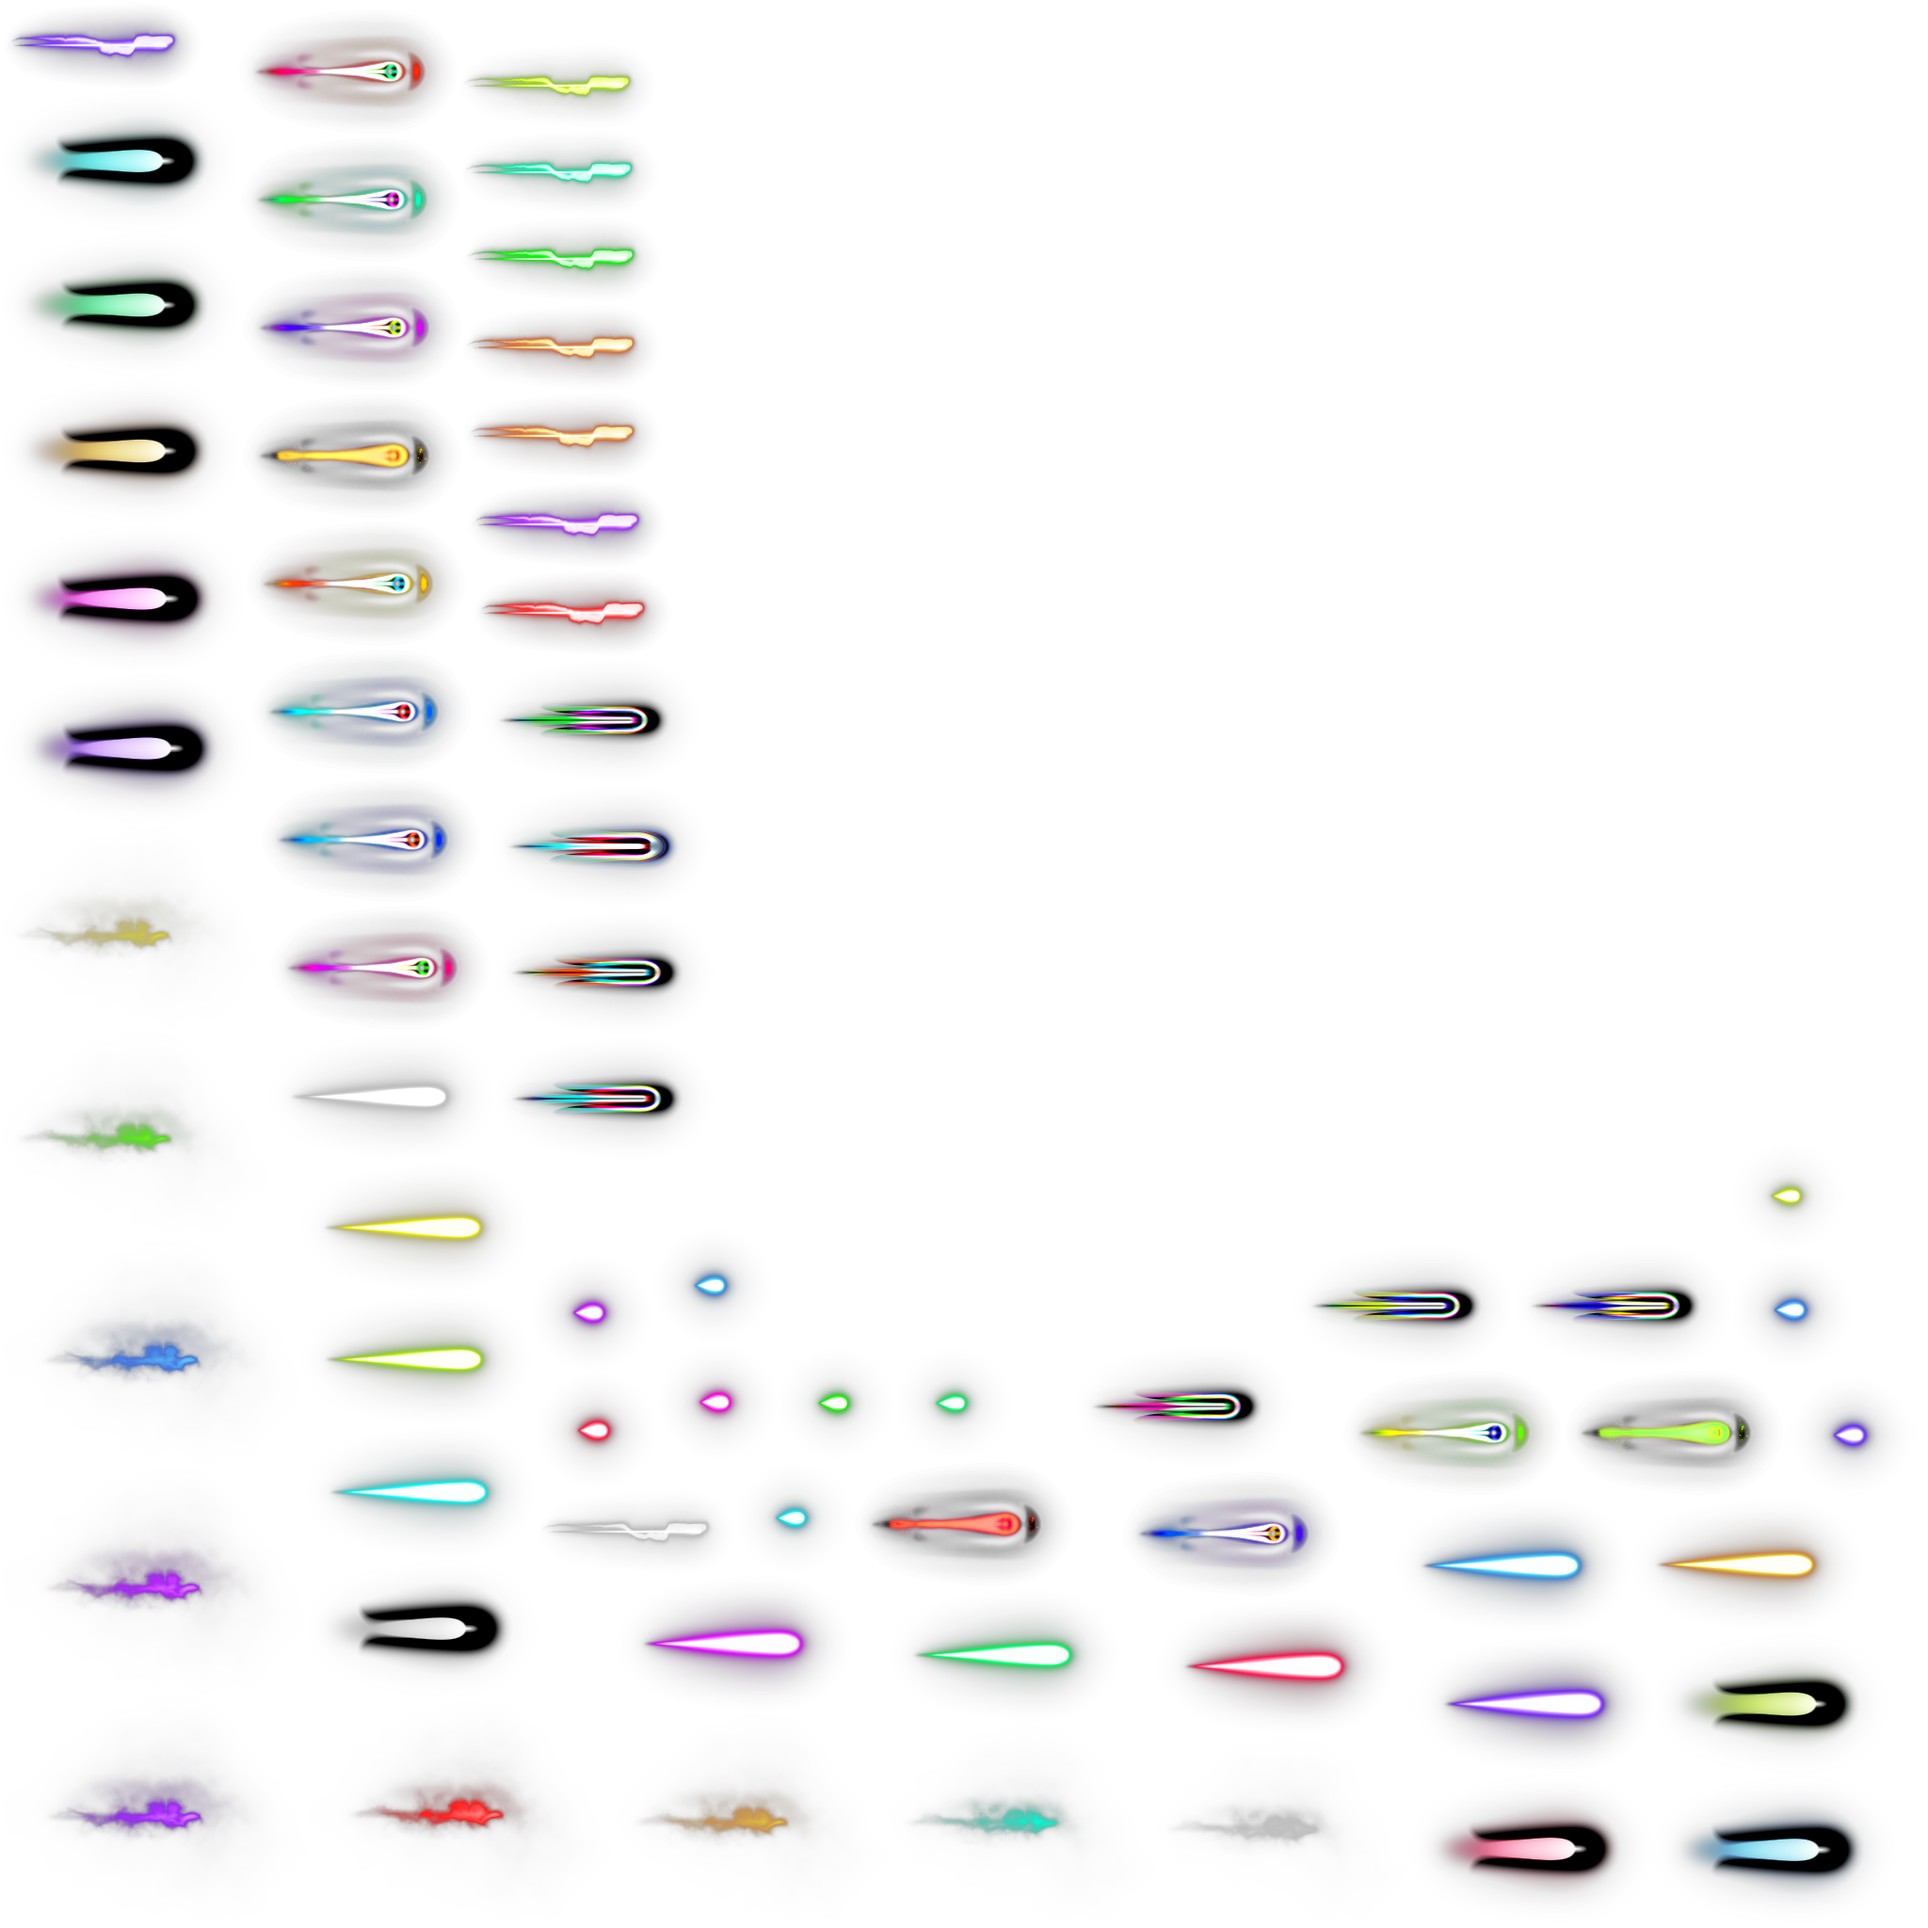
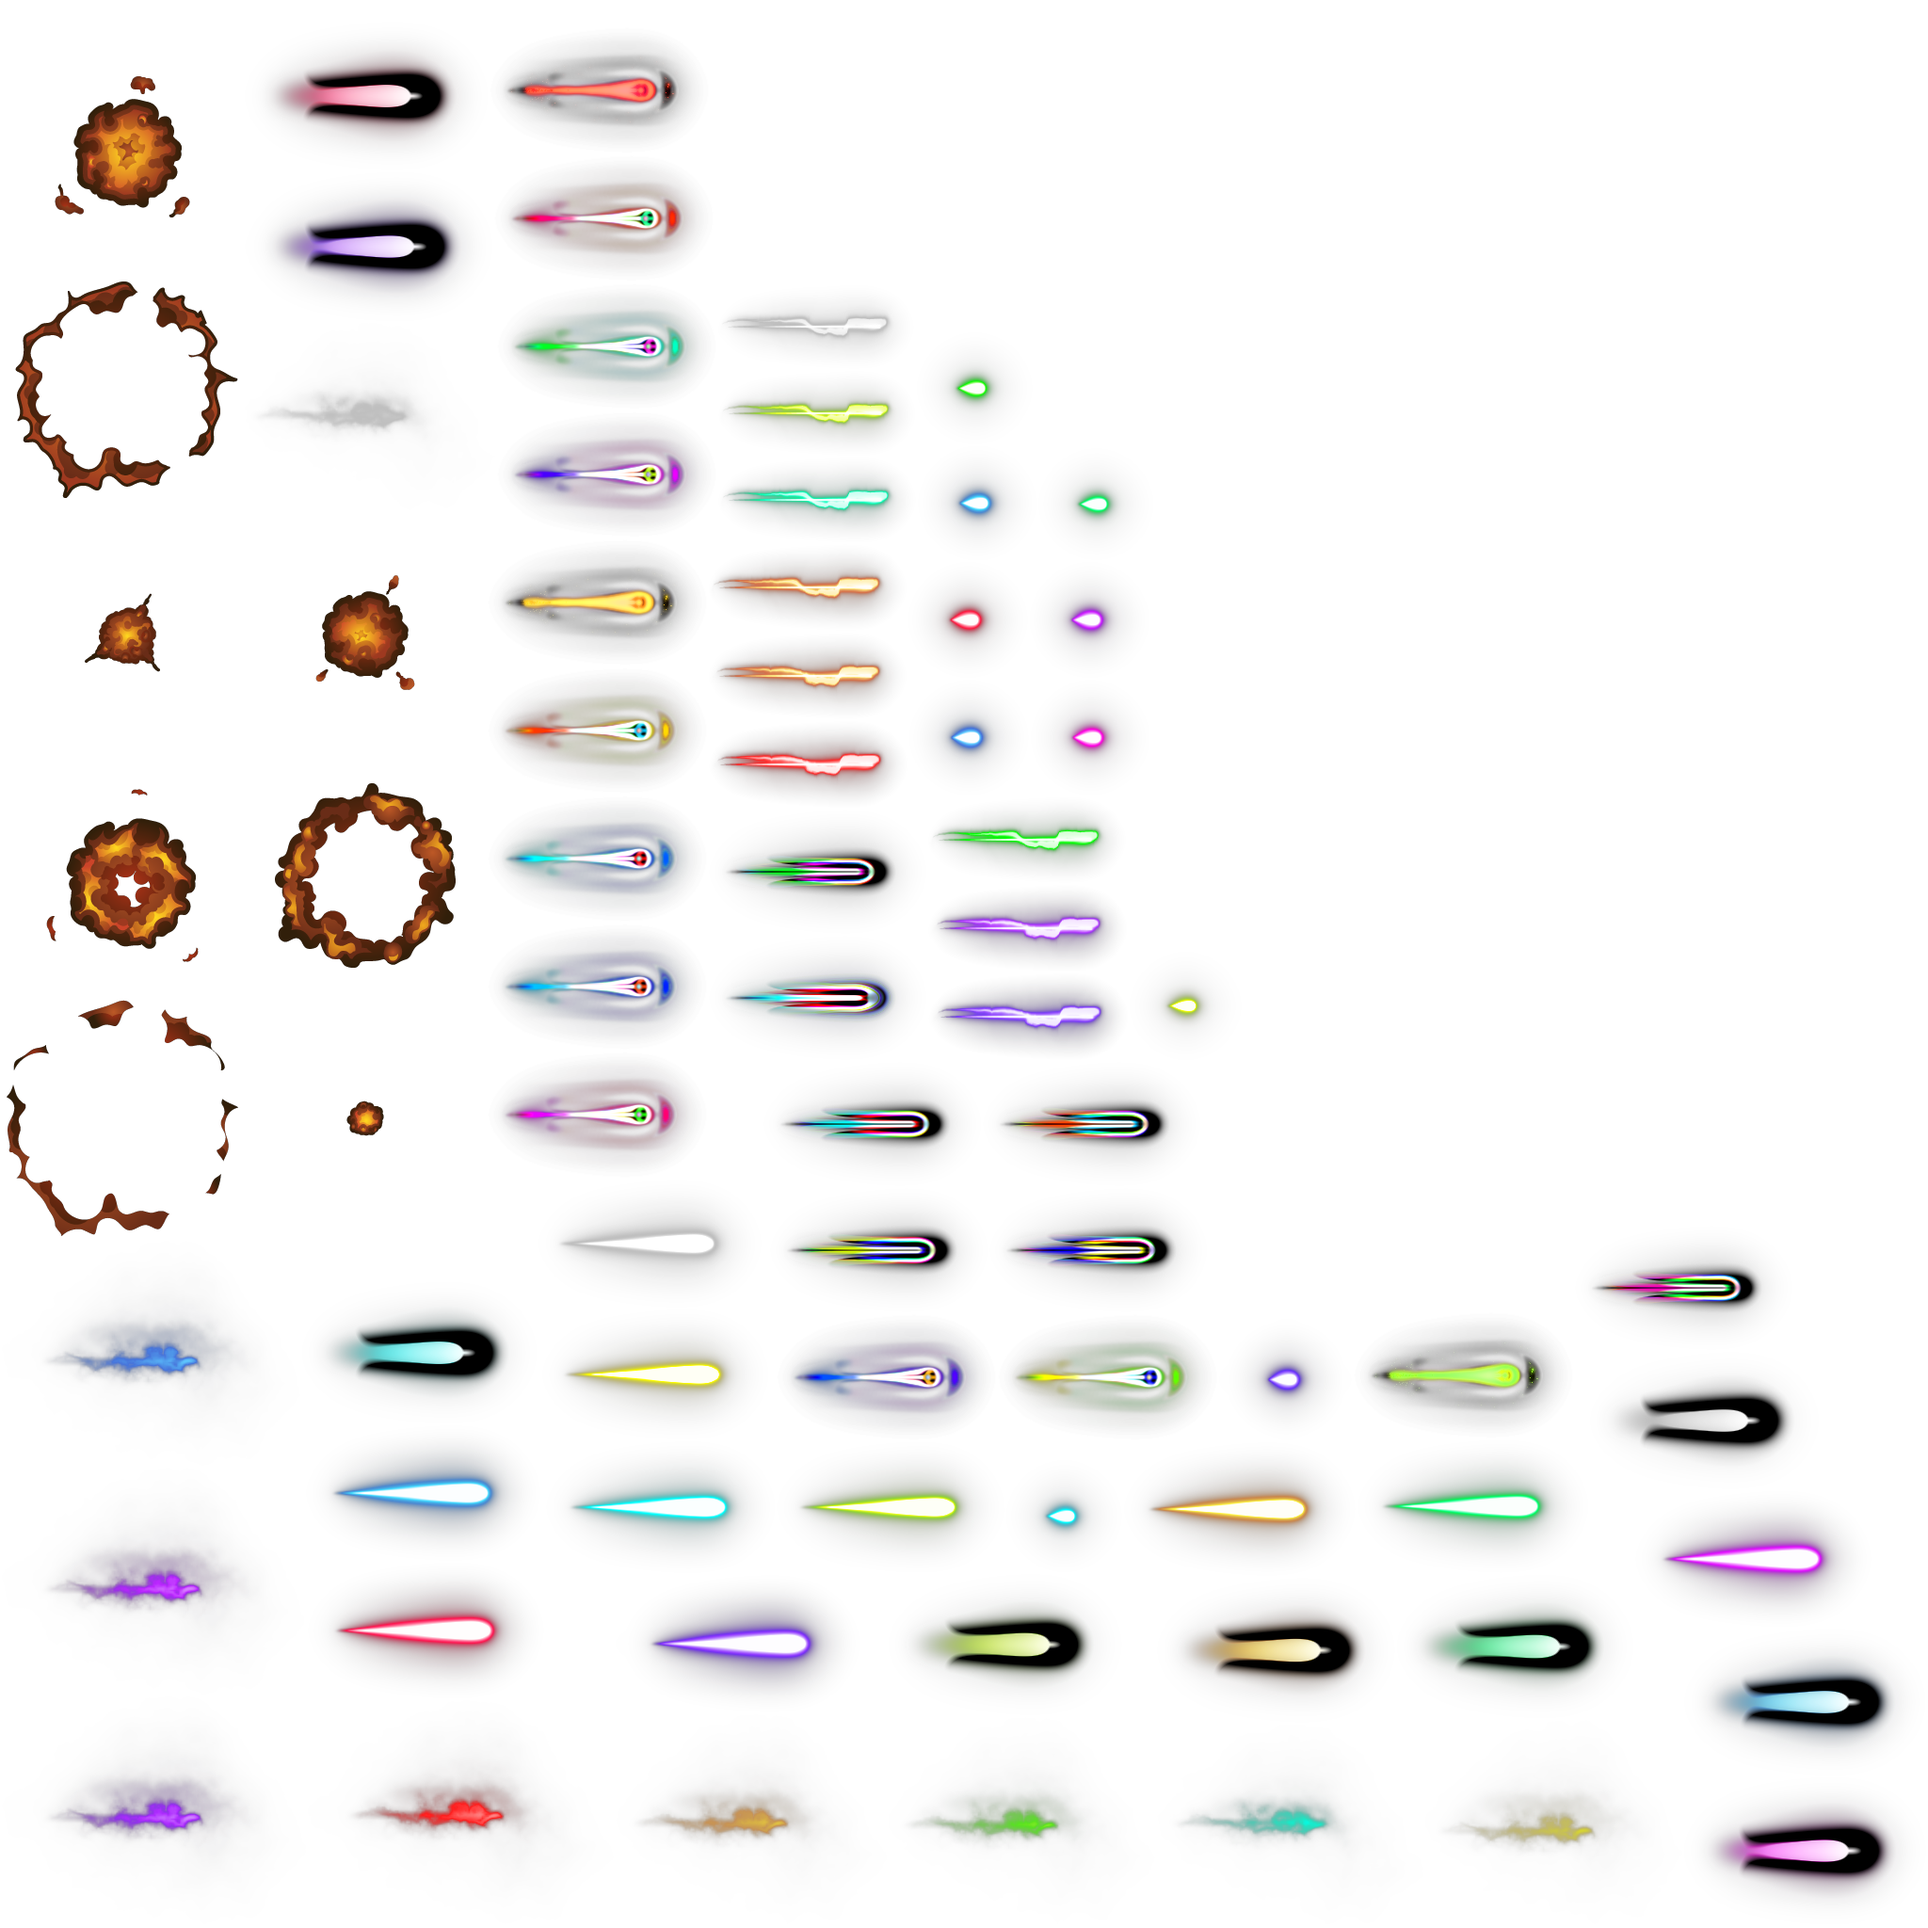
Add explosion decals

diff --git a/core/src/com/astroblaze/DecalController.java b/core/src/com/astroblaze/DecalController.java
@@ -1,0 +1,76 @@
+package com.astroblaze;
+
+import com.badlogic.gdx.Gdx;
+import com.badlogic.gdx.graphics.Camera;
+import com.badlogic.gdx.graphics.GL20;
+import com.badlogic.gdx.graphics.g2d.Animation;
+import com.badlogic.gdx.graphics.g2d.TextureAtlas;
+import com.badlogic.gdx.graphics.g2d.TextureRegion;
+import com.badlogic.gdx.graphics.g3d.decals.CameraGroupStrategy;
+import com.badlogic.gdx.graphics.g3d.decals.Decal;
+import com.badlogic.gdx.graphics.g3d.decals.DecalBatch;
+import com.badlogic.gdx.math.MathUtils;
+import com.badlogic.gdx.math.Vector3;
+import com.badlogic.gdx.utils.Array;
+
+public class DecalController {
+    private static class DecalInfo {
+        public Vector3 position;
+        public Vector3 velocity;
+        public float time;
+        public Decal decal;
+    }
+
+    private final DecalBatch batch;
+    private final Array<DecalInfo> activeDecals = new Array<>(64);
+    private final Scene3D scene;
+    private final Camera camera;
+    private Animation<TextureRegion> explosionAnimation;
+    private Array<TextureAtlas.AtlasRegion> texRegions;
+    private final Vector3 billboardDirection = new Vector3();
+
+    public DecalController(Scene3D scene, Camera camera) {
+        this.scene = scene;
+        this.camera = camera;
+        this.batch = new DecalBatch(new CameraGroupStrategy(camera));
+    }
+
+    public void loadTextures() {
+        this.texRegions = Assets.asset(Assets.atlas).findRegions("explosion1");
+        this.explosionAnimation = new Animation<TextureRegion>(0.1f, texRegions);
+    }
+
+    public void addExplosion(Vector3 position, Vector3 velocity, float scale) {
+        DecalInfo info = new DecalInfo();
+        info.position = position.cpy();
+        info.velocity = velocity.cpy();
+        info.time = 0f;
+        info.decal = Decal.newDecal(texRegions.first(), true);
+        info.decal.setPosition(info.position);
+        info.decal.setRotation(billboardDirection, Vector3.Y);
+        info.decal.setScale(scale * 0.1f);
+        info.decal.rotateZ(MathUtils.random(0f, 360f));
+        activeDecals.add(info);
+    }
+
+    public void update(float delta) {
+        billboardDirection.set(-camera.direction.x, -camera.direction.y, -camera.direction.z);
+        for (int i = activeDecals.size - 1; i >= 0; i--) {
+            DecalInfo info = activeDecals.get(i);
+            info.time += delta;
+            if (info.time >= explosionAnimation.getAnimationDuration()) {
+                activeDecals.removeIndex(i);
+            }
+            info.position.mulAdd(info.velocity, delta);
+            info.decal.setPosition(info.position);
+        }
+    }
+
+    public void render() {
+        for (DecalInfo info : activeDecals) {
+            info.decal.setTextureRegion(explosionAnimation.getKeyFrame(info.time));
+            batch.add(info.decal);
+        }
+        batch.flush();
+    }
+}

diff --git a/core/src/com/astroblaze/Scene3D.java b/core/src/com/astroblaze/Scene3D.java
@@ -36,6 +36,9 @@ public class Scene3D implements AstroblazeGame.ILoadingFinishedListener {
     private final MissilePool missilePool;
     private float timeScale = 1f;
 
+    // decals
+    public final DecalController decals;
+
     public Ship ship;
 
     public Scene3D(AstroblazeGame game) {
@@ -52,6 +55,7 @@ public class Scene3D implements AstroblazeGame.ILoadingFinishedListener {
         PointSpriteParticleBatch batch = new PointSpriteParticleBatch(1024);
         batch.setCamera(this.getCamera());
         this.particles.add(batch);
+        this.decals = new DecalController(this, camera);
     }
 
     public MissilePool getMissilesPool() {
@@ -67,6 +71,7 @@ public class Scene3D implements AstroblazeGame.ILoadingFinishedListener {
         this.particlePool.setEffect(Assets.asset(Assets.flame2));
         this.missilePool.setAssets(particlePool, Assets.asset(Assets.missile));
         this.enemyPool.setAssets(particlePool, Assets.asset(Assets.spaceShip3));
+        this.decals.loadTextures();
     }
 
     public void act(float delta) {
@@ -99,6 +104,7 @@ public class Scene3D implements AstroblazeGame.ILoadingFinishedListener {
         }
 
         this.particles.update(delta);
+        this.decals.update(delta);
 
         for (SceneActor actor : actors) {
             if (!(actor instanceof CollisionProvider))
@@ -111,6 +117,7 @@ public class Scene3D implements AstroblazeGame.ILoadingFinishedListener {
                 }
 
                 collision.damageFromCollision(m.getDamage());
+                decals.addExplosion(m.getPosition(), m.getVelocity().scl(0.5f), 0.55f);
                 missilePool.free(m);
             }
         }
@@ -129,6 +136,8 @@ public class Scene3D implements AstroblazeGame.ILoadingFinishedListener {
             actor.render(game.batch, environment);
         }
         game.batch.end();
+        Gdx.gl.glClear(GL20.GL_DEPTH_BUFFER_BIT);
+        decals.render();
 
         if (Gdx.graphics.getFrameId() % 15 == 0) {
             // every ~2 seconds do cleanup of objects that go out of bounds

diff --git a/core/src/com/astroblaze/Assets.java b/core/src/com/astroblaze/Assets.java
@@ -15,10 +15,13 @@ import com.badlogic.gdx.utils.Array;
 
 public class Assets extends AssetManager {
     private static Assets instance;
-    public final static Array<AssetDescriptor<Texture>> parallaxArray = new Array<>();
+
+    // these 3 assets loaded first to show loading screen
     public final static AssetDescriptor<Skin> uiSkin = new AssetDescriptor<>("ui/clean-crispy-ui.json", Skin.class);
     public final static AssetDescriptor<Texture> logo = new AssetDescriptor<>("logo.png", Texture.class);
     public final static AssetDescriptor<Music> uiMusic = new AssetDescriptor<>("music/ObservingTheStar.ogg", Music.class);
+
+    public final static Array<AssetDescriptor<Texture>> parallaxArray = new Array<>();
     public final static AssetDescriptor<Music> gameMusic = new AssetDescriptor<>("music/space_flight.mp3", Music.class);
     public final static AssetDescriptor<Texture> parallax0 = new AssetDescriptor<>("parallax/parallax0.png", Texture.class);
     public final static AssetDescriptor<Texture> parallax1 = new AssetDescriptor<>("parallax/parallax1.png", Texture.class);

diff --git a/core/src/com/astroblaze/Enemy.java b/core/src/com/astroblaze/Enemy.java
@@ -54,9 +54,11 @@ public class Enemy extends Renderable implements CollisionProvider {
     @Override
     public void damageFromCollision(float damage) {
         this.hp -= damage;
-        if(this.hp <= 0f) {
+        if (this.hp <= 0f) {
             scene.removeActors.add(this);
             Assets.asset(Assets.explosion).play(1f, 1f, MathUtils.random(-1f, 1f));
+            scene.decals.addExplosion(this.getPosition(), moveVector, 1f);
         }
     }
 }
+

diff --git a/core/src/com/astroblaze/Missile.java b/core/src/com/astroblaze/Missile.java
@@ -31,6 +31,10 @@ public class Missile extends Renderable {
         this.setScale(0.75f);
     }
 
+    public Vector3 getVelocity() {
+        return this.moveVector.cpy().nor().scl(moveSpeed);
+    }
+
     @Override
     public void act(float delta) {
         super.act(delta);
